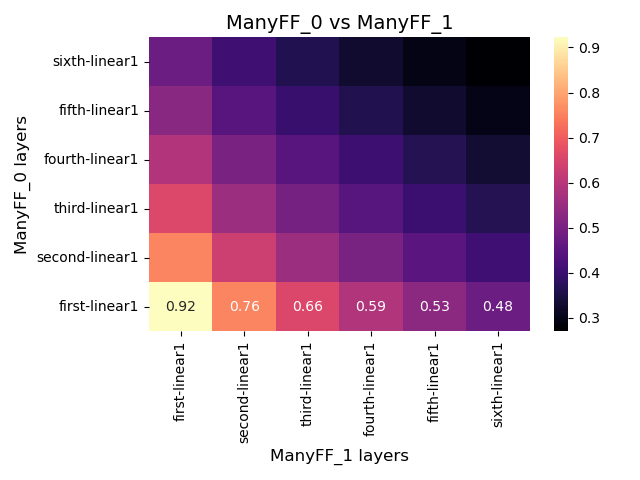
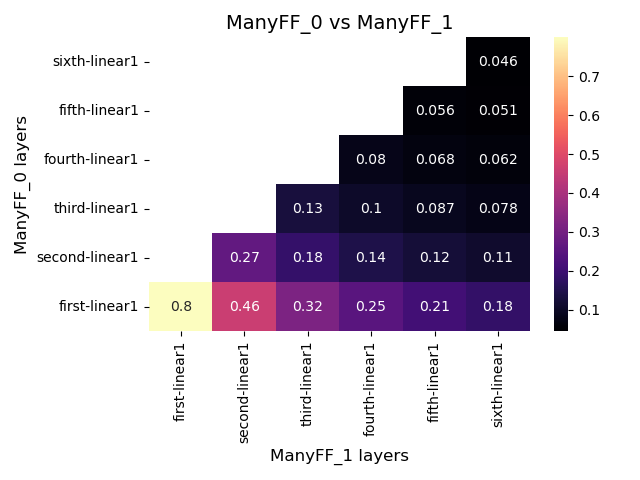
New organization for the repository

diff --git a/cka/utils.py b/cka/utils.py
@@ -1,5 +1,3 @@
-from typing import Literal
-
 import torch
 
 
@@ -55,141 +53,3 @@ def center_gram_matrix(gram_matrix: torch.Tensor, unbiased=False) -> torch.Tenso
         gram_matrix -= means[None, :]
 
     return gram_matrix
-
-
-def hsic(gram_x: torch.Tensor, gram_y: torch.Tensor) -> torch.Tensor:
-    """
-    Compute the Hilbert-Schmidt Independence Criterion on two given Gram matrices.
-    :param gram_x: Gram matrix of shape (n, n), this is equivalent to K from the original paper.
-    :param gram_y: Gram matrix of shape (n, n), this is equivalent to L from the original paper.
-    :return: the Hilbert-Schmidt Independence Criterion values.
-    """
-    if not torch.allclose(gram_x, gram_x.T) and not torch.allclose(gram_y, gram_y.T):
-        raise ValueError("The given matrices must be symmetric.")
-
-    # Build the identity matrix
-    n = gram_x.shape[0]
-    identity = torch.eye(n, n, dtype=gram_x.dtype, device=gram_x.device)
-
-    # Build the centering matrix
-    h = identity - torch.ones(n, n, dtype=gram_x.dtype, device=gram_x.device) / n
-
-    # Compute k * h and l * h
-    kh = torch.mm(gram_x, h)
-    lh = torch.mm(gram_y, h)
-
-    # Compute the trace of the product kh * lh
-    trace = torch.trace(kh.mm(lh))
-    return trace / (n - 1) ** 2
-
-
-def cka_base(
-    x: torch.Tensor,
-    y: torch.Tensor,
-    kernel: Literal["linear", "rbf"] = "linear",
-    unbiased: bool = False,
-    threshold: float = 1.0,
-    method: Literal["fro_norm", "hsic"] = "fro_norm",
-) -> float:
-    """
-    Compute the Centered Kernel Alignment between two given matrices. Adapted from the one made by Kornblith et al.
-    https://github.com/google-research/google-research/tree/master/representation_similarity.
-    :param x: tensor of shape (n, j).
-    :param y: tensor of shape (n, k).
-    :param kernel: the kernel used to compute the Gram matrices, must be "linear" or "rbf" (default="linear).
-    :param unbiased: whether to use the unbiased version of CKA (default=False).
-    :param threshold: the threshold used by the RBF kernel (default=1.0).
-    :param method: the method used to compute the CKA value, must be "fro_norm" (Frobenius norm) or "hsic"
-        (Hilbert-Schmidt Independence Criterion). Note that the choice does not have influence on the output
-        (default="fro_norm").
-    :return: a float in [0, 1] that is the CKA value between the two given matrices.
-    """
-    assert kernel in ["linear", "rbf"]
-    assert method in ["hsic", "fro_norm"]
-
-    x = x.type(torch.float64) if not x.dtype == torch.float64 else x
-    y = y.type(torch.float64) if not y.dtype == torch.float64 else y
-
-    # Build the Gram matrices by applying the kernel
-    gram_x = linear_kernel(x) if kernel == "linear" else rbf_kernel(x, threshold)
-    gram_y = linear_kernel(y) if kernel == "linear" else rbf_kernel(y, threshold)
-
-    # Compute CKA by either using HSIC or the Frobenius norm
-    if method == "hsic":
-        hsic_xy = hsic(gram_x, gram_y)
-        hsic_xx = hsic(gram_x, gram_x)
-        hsic_yy = hsic(gram_y, gram_y)
-        cka = hsic_xy / torch.sqrt(hsic_xx * hsic_yy)
-    else:
-        gram_x = center_gram_matrix(gram_x, unbiased)
-        gram_y = center_gram_matrix(gram_y, False)
-        norm_xy = gram_x.ravel().dot(gram_y.ravel())
-        norm_xx = torch.linalg.norm(gram_x, ord="fro")
-        norm_yy = torch.linalg.norm(gram_y, ord="fro")
-        cka = norm_xy / (norm_xx * norm_yy)
-
-    return cka
-
-
-def hsic1(gram_x: torch.Tensor, gram_y: torch.Tensor) -> torch.Tensor:
-    """
-    Compute the batched version of the Hilbert-Schmidt Independence Criterion on Gram matrices.
-    :param gram_x: a tensor of shape (bsz, n, n).
-    :param gram_y: a tensor of shape (bsz, n, n).
-    :return: the unbiased Hilbert-Schmidt Independence Criterion values.
-    """
-    assert len(gram_x.size()) == 3 and gram_x.size() == gram_y.size()
-    n = gram_x.shape[-1]
-    gram_x = gram_x.clone()
-    gram_y = gram_y.clone()
-
-    # Fill the diagonal of each matrix with 0
-    gram_x.diagonal(dim1=-1, dim2=-2).fill_(0)
-    gram_y.diagonal(dim1=-1, dim2=-2).fill_(0)
-
-    # Compute the product between k and l
-    kl = torch.bmm(gram_x, gram_y)
-
-    # Compute the trace (sum of the elements on the diagonal) of the previous product, i.e.: the left term
-    trace_kl = kl.diagonal(dim1=-1, dim2=-2).sum(-1).unsqueeze(-1).unsqueeze(-1)
-
-    # Compute the middle term
-    middle_term = gram_x.sum((-1, -2), keepdim=True) * gram_y.sum((-1, -2), keepdim=True)
-    middle_term /= (n - 1) * (n - 2)
-
-    # Compute the right term
-    right_term = kl.sum((-1, -2), keepdim=True)
-    right_term *= 2 / (n - 2)
-
-    # Put all together to compute the main term
-    main_term = trace_kl + middle_term - right_term
-
-    # Compute the hsic values
-    out = main_term / (n ** 2 - 3 * n)
-    return out.squeeze(-1).squeeze(-1)
-
-
-def batched_cka(x: torch.Tensor, y: torch.Tensor) -> torch.Tensor:
-    """
-    Compute the minibatch version of CKA from Nguyen et al. (https://arxiv.org/abs/2010.15327). This computation is
-    performed with linear kernel and by calculating HSIC_1, it is based on the one implemented by
-    https://github.com/numpee/CKA.pytorch/blob/07874ec7e219ad29a29ee8d5ebdada0e1156cf9f/cka.py#L107.
-    :param x: tensor of shape (bsz, n, j).
-    :param y: tensor of shape (bsz, n, k).
-    :return: a float in [0, 1] that is the CKA value between the two given tensors.
-    """
-    x = x.type(torch.float64) if not x.dtype == torch.float64 else x
-    y = y.type(torch.float64) if not y.dtype == torch.float64 else y
-
-    # Build the Gram matrices by applying the linear kernel
-    gram_x = torch.bmm(x, x.transpose(1, 2))
-    gram_y = torch.bmm(y, y.transpose(1, 2))
-
-    # Compute the HSIC values for the entire batches
-    hsic1_xy = hsic1(gram_x, gram_y)
-    hsic1_xx = hsic1(gram_x, gram_x)
-    hsic1_yy = hsic1(gram_y, gram_y)
-
-    # Compute the CKA value
-    cka = hsic1_xy.sum() / (hsic1_xx.sum() * hsic1_yy.sum()).sqrt()
-    return cka

diff --git a/cka/core.py b/cka/core.py
@@ -1,0 +1,80 @@
+from typing import Literal
+
+import torch
+
+from .hsic import hsic0, hsic1
+from .utils import center_gram_matrix, linear_kernel, rbf_kernel
+
+
+def cka_base(
+    x: torch.Tensor,
+    y: torch.Tensor,
+    kernel: Literal["linear", "rbf"] = "linear",
+    unbiased: bool = False,
+    threshold: float = 1.0,
+    method: Literal["fro_norm", "hsic"] = "fro_norm",
+) -> float:
+    """
+    Compute the Centered Kernel Alignment between two given matrices. Adapted from the one made by Kornblith et al.
+    https://github.com/google-research/google-research/tree/master/representation_similarity.
+    :param x: tensor of shape (n, j).
+    :param y: tensor of shape (n, k).
+    :param kernel: the kernel used to compute the Gram matrices, must be "linear" or "rbf" (default="linear).
+    :param unbiased: whether to use the unbiased version of CKA (default=False).
+    :param threshold: the threshold used by the RBF kernel (default=1.0).
+    :param method: the method used to compute the CKA value, must be "fro_norm" (Frobenius norm) or "hsic"
+        (Hilbert-Schmidt Independence Criterion). Note that the choice does not influence the output
+        (default="fro_norm").
+    :return: a float in [0, 1] that is the CKA value between the two given matrices.
+    """
+    assert kernel in ["linear", "rbf"]
+    assert method in ["hsic", "fro_norm"]
+
+    x = x.type(torch.float64) if not x.dtype == torch.float64 else x
+    y = y.type(torch.float64) if not y.dtype == torch.float64 else y
+
+    # Build the Gram matrices by applying the kernel
+    gram_x = linear_kernel(x) if kernel == "linear" else rbf_kernel(x, threshold)
+    gram_y = linear_kernel(y) if kernel == "linear" else rbf_kernel(y, threshold)
+
+    # Compute CKA by either using HSIC or the Frobenius norm
+    if method == "hsic":
+        hsic_xy = hsic0(gram_x, gram_y)
+        hsic_xx = hsic0(gram_x, gram_x)
+        hsic_yy = hsic0(gram_y, gram_y)
+        cka = hsic_xy / torch.sqrt(hsic_xx * hsic_yy)
+    else:
+        gram_x = center_gram_matrix(gram_x, unbiased)
+        gram_y = center_gram_matrix(gram_y, unbiased)
+        norm_xy = gram_x.ravel().dot(gram_y.ravel())
+        norm_xx = torch.linalg.norm(gram_x, ord="fro")
+        norm_yy = torch.linalg.norm(gram_y, ord="fro")
+        cka = norm_xy / (norm_xx * norm_yy)
+
+    return cka
+
+
+def cka_batch(x: torch.Tensor, y: torch.Tensor) -> torch.Tensor:
+    """
+    Compute the minibatch version of CKA from Nguyen et al. (https://arxiv.org/abs/2010.15327). This computation is
+    performed with linear kernel and by calculating HSIC_1, it is based on the one implemented by
+    https://github.com/numpee/CKA.pytorch/blob/07874ec7e219ad29a29ee8d5ebdada0e1156cf9f/cka.py#L107.
+    :param x: tensor of shape (bsz, n, j).
+    :param y: tensor of shape (bsz, n, k).
+    :return: a float in [0, 1] that is the CKA value between the two given tensors.
+    """
+    x = x.type(torch.float64) if not x.dtype == torch.float64 else x
+    y = y.type(torch.float64) if not y.dtype == torch.float64 else y
+
+    # Build the Gram matrices by applying the linear kernel
+    gram_x = torch.bmm(x, x.transpose(1, 2))
+    gram_y = torch.bmm(y, y.transpose(1, 2))
+
+    # Compute the HSIC values for the entire batches
+    hsic1_xy = hsic1(gram_x, gram_y)
+    hsic1_xx = hsic1(gram_x, gram_x)
+    hsic1_yy = hsic1(gram_y, gram_y)
+
+    # Compute the CKA value
+    cka = hsic1_xy.sum() / (hsic1_xx.sum() * hsic1_yy.sum()).sqrt()
+    return cka

diff --git a/cka/hsic.py b/cka/hsic.py
@@ -1,0 +1,65 @@
+import torch
+
+
+def hsic0(gram_x: torch.Tensor, gram_y: torch.Tensor) -> torch.Tensor:
+    """
+    Compute the Hilbert-Schmidt Independence Criterion on two given Gram matrices.
+    :param gram_x: Gram matrix of shape (n, n), this is equivalent to K from the original paper.
+    :param gram_y: Gram matrix of shape (n, n), this is equivalent to L from the original paper.
+    :return: the Hilbert-Schmidt Independence Criterion values.
+    """
+    if not torch.allclose(gram_x, gram_x.T) and not torch.allclose(gram_y, gram_y.T):
+        raise ValueError("The given matrices must be symmetric.")
+
+    # Build the identity matrix
+    n = gram_x.shape[0]
+    identity = torch.eye(n, n, dtype=gram_x.dtype, device=gram_x.device)
+
+    # Build the centering matrix
+    h = identity - torch.ones(n, n, dtype=gram_x.dtype, device=gram_x.device) / n
+
+    # Compute k * h and l * h
+    kh = torch.mm(gram_x, h)
+    lh = torch.mm(gram_y, h)
+
+    # Compute the trace of the product kh * lh
+    trace = torch.trace(kh.mm(lh))
+    return trace / (n - 1) ** 2
+
+
+def hsic1(gram_x: torch.Tensor, gram_y: torch.Tensor) -> torch.Tensor:
+    """
+    Compute the batched version of the Hilbert-Schmidt Independence Criterion on Gram matrices.
+    :param gram_x: a tensor of shape (bsz, n, n).
+    :param gram_y: a tensor of shape (bsz, n, n).
+    :return: the unbiased Hilbert-Schmidt Independence Criterion values.
+    """
+    assert len(gram_x.size()) == 3 and gram_x.size() == gram_y.size()
+    n = gram_x.shape[-1]
+    gram_x = gram_x.clone()
+    gram_y = gram_y.clone()
+
+    # Fill the diagonal of each matrix with 0
+    gram_x.diagonal(dim1=-1, dim2=-2).fill_(0)
+    gram_y.diagonal(dim1=-1, dim2=-2).fill_(0)
+
+    # Compute the product between k (i.e.: gram_x) and l (i.e.: gram_y)
+    kl = torch.bmm(gram_x, gram_y)
+
+    # Compute the trace (sum of the elements on the diagonal) of the previous product, i.e.: the left term
+    trace_kl = kl.diagonal(dim1=-1, dim2=-2).sum(-1).unsqueeze(-1).unsqueeze(-1)
+
+    # Compute the middle term
+    middle_term = gram_x.sum((-1, -2), keepdim=True) * gram_y.sum((-1, -2), keepdim=True)
+    middle_term /= (n - 1) * (n - 2)
+
+    # Compute the right term
+    right_term = kl.sum((-1, -2), keepdim=True)
+    right_term *= 2 / (n - 2)
+
+    # Put all together to compute the main term
+    main_term = trace_kl + middle_term - right_term
+
+    # Compute the hsic values
+    out = main_term / (n ** 2 - 3 * n)
+    return out.squeeze(-1).squeeze(-1)

diff --git a/cka/cka.py b/cka/cka.py
@@ -11,7 +11,7 @@ from torch.utils.data import DataLoader
 from torchvision.models.feature_extraction import create_feature_extractor
 from tqdm import tqdm
 
-from .utils import batched_cka
+from .core import cka_batch
 
 
 class CKA:
@@ -163,7 +163,7 @@ class CKA:
                 # Compute the CKA values for each output pair
                 for i, (_, x) in enumerate(first_outputs.items()):
                     for j, (_, y) in enumerate(second_outputs.items()):
-                        cka[i, j] = batched_cka(x, y)
+                        cka[i, j] = cka_batch(x, y)
 
         # One last check
         assert not torch.isnan(cka).any(), "CKA computation resulted in NANs"
@@ -195,7 +195,6 @@ class CKA:
         :param use_tight_layout: whether to use a tight layout in order not to cut any label in the plot (default=True).
         :param show_annotations: whether to show the annotations on the heatmap (default=True).
         :param show_img: whether to show the plot (default=True).
-        :return:
         """
         # Build the heatmap
         vmin: float | None = kwargs.get("vmin", None)

diff --git a/main.py b/main.py
@@ -58,13 +58,13 @@ if __name__ == "__main__":
         second_name="ManyFF_new",
         device="cuda:0",
     )
-    x_new = torch.randn(32, 128, 512, dtype=torch.float64)
+    x_new = torch.randn(128, 256, 512, dtype=torch.float64)
     dataset = TensorDataset(x_new)
-    dataloader = DataLoader(dataset, batch_size=16, num_workers=0, drop_last=True)
+    dataloader = DataLoader(dataset, batch_size=32, num_workers=0, drop_last=True)
     cka_matrix = cka(dataloader)
     cka.plot_cka(
         cka_matrix=cka_matrix,
-        title=f"Model comparison, bsz {dataloader.batch_size}",
+        title=f"Model compared with itself",
         show_ticks_labels=True,
         short_tick_labels_splits=2,
         use_tight_layout=True,

diff --git a/cka/__init__.py b/cka/__init__.py
@@ -1,4 +1,6 @@
 from .cka import CKA
-from .utils import linear_kernel, rbf_kernel, center_gram_matrix, hsic, cka_base
+from .core import cka_base, cka_batch
+from .hsic import hsic0, hsic1
+from .utils import center_gram_matrix, linear_kernel, rbf_kernel
 
-__all__ = ["center_gram_matrix", "cka_base", "hsic", "linear_kernel", "rbf_kernel", "CKA"]
+__all__ = ["center_gram_matrix", "cka_base", "cka_batch", "hsic0", "hsic1", "linear_kernel", "rbf_kernel", "CKA"]
